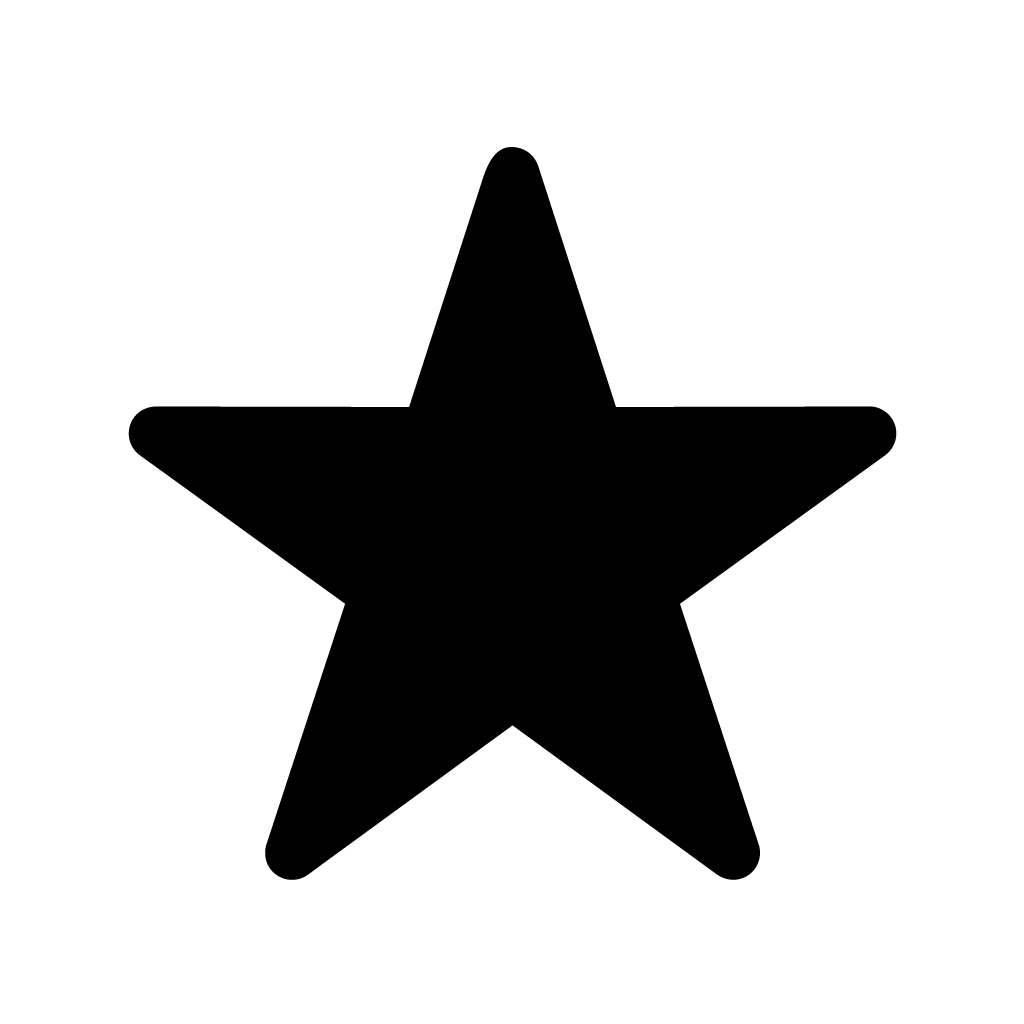
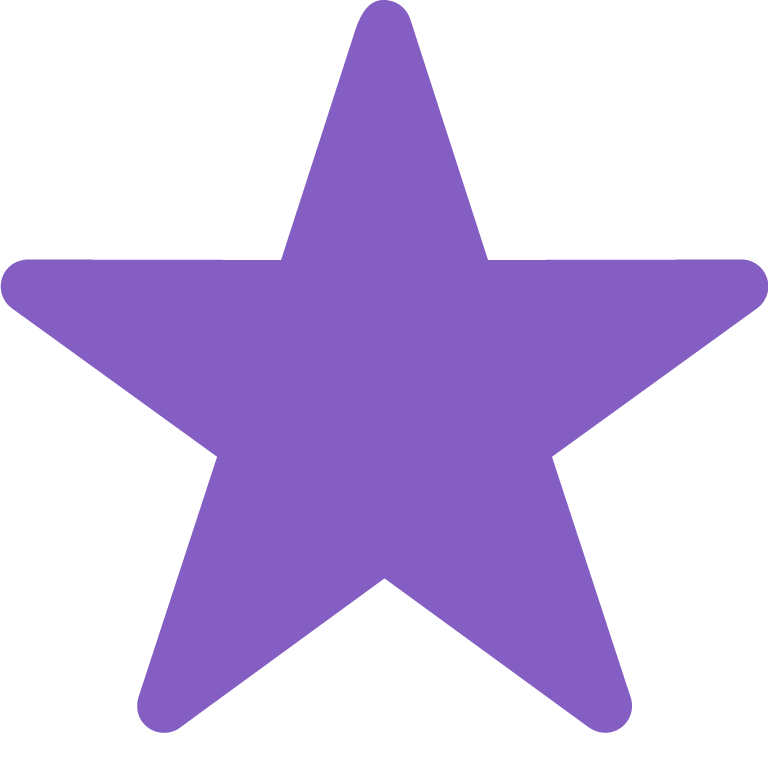
IR-58: Implement user ranking, progress, and name design

diff --git a/lib/views/widgets/user/ranking.dart b/lib/views/widgets/user/ranking.dart
@@ -14,48 +14,69 @@ class Ranking extends StatelessWidget {
 
   @override
   Widget build(BuildContext context) {
-    return Column(
-      mainAxisSize: MainAxisSize.min,
-      children: [
-        Text(
-          _name,
-          style: Theme.of(context).textTheme.headline6,
-        ),
-        Expanded(child: _rankingBar(context))
-      ],
+    return Container(
+      height: 200,
+      child: Column(
+        crossAxisAlignment: CrossAxisAlignment.start,
+        mainAxisSize: MainAxisSize.min,
+        children: [Expanded(child: _rankingBar(context))],
+      ),
     );
   }
 
   Widget _rankingBar(BuildContext context) {
     return Container(
       width: 250,
-      child: Stack(
-        alignment: Alignment.centerRight,
+      child: Row(
+        mainAxisAlignment: MainAxisAlignment.start,
+        crossAxisAlignment: CrossAxisAlignment.stretch,
         children: [
-          Container(
-            width: 200,
-            child: ProgressBar(
-              borderRadius: storyBorderRadius,
-              borderWidth: 1,
-              height: 12,
-              progress: _progress,
-              padding: 2,
+          Expanded(
+            child: Stack(
+              alignment: Alignment.center,
+              children: [
+                Positioned(
+                  top: 0,
+                  left: 0,
+                  child: Text(
+                    _name,
+                    style: Theme.of(context).textTheme.headline6,
+                  ),
+                ),
+                Positioned(
+                  top: 0,
+                  left: 190,
+                  child: Container(
+                      width: 50,
+                      height: 50,
+                      decoration: BoxDecoration(
+                          borderRadius: BorderRadius.circular(50),
+                          image: DecorationImage(
+                            alignment: Alignment.center,
+                            fit: BoxFit.fill,
+                            image: AssetImage('images/shared/star.png'),
+                          )),
+                      child: Center(
+                          child: Text(_rank.toString(),
+                              style: Theme.of(context).textTheme.subtitle2))),
+                ),
+                Positioned(
+                  top: 25,
+                  left: 0,
+                  child: Container(
+                    width: 200,
+                    child: ProgressBar(
+                      borderRadius: storyBorderRadius,
+                      borderWidth: 1,
+                      height: 12,
+                      progress: _progress,
+                      padding: 2,
+                    ),
+                  ),
+                ),
+              ],
             ),
           ),
-          Positioned(
-            right: 0,
-            child: Container(
-                width: 100,
-                decoration: BoxDecoration(
-                    borderRadius: BorderRadius.circular(50),
-                    image: DecorationImage(
-                      alignment: Alignment.center,
-                      image: AssetImage('images/shared/star.png'),
-                    )),
-                child: Center(
-                    child: Text(_rank.toString(),
-                        style: Theme.of(context).textTheme.subtitle2))),
-          )
         ],
       ),
     );
